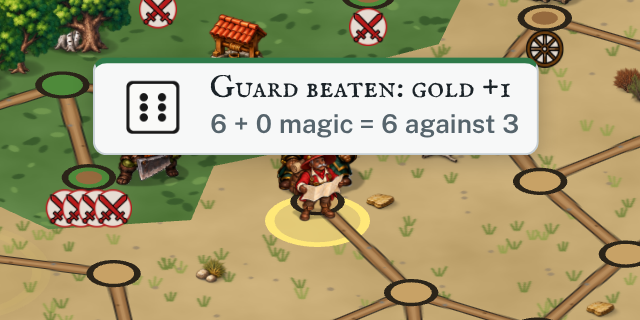
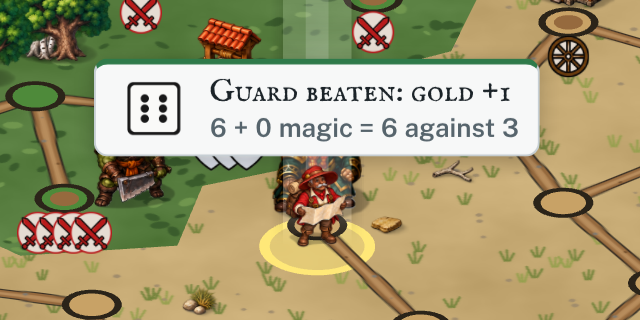
Rulebook: the beams of light, in a sentence and three pictures (Q327)
"A column of light rises from every figure, so you can find it at a
glance." stands as its own paragraph after your own white ring in
Playing online or on one device. The three pictures with figures in them
(the route, the box Go opens to ask, the fight's notice) are taken again
from the game as it now is, the same scenes at the same sizes, so they
show the beams. The other seven pictures and every other word are as
they were.

Claude-Session: https://claude.ai/code/session_01P1RbPbXs9NwxBkwmk9LorR

diff --git a/docs/OPEN_QUESTIONS.md b/docs/OPEN_QUESTIONS.md
@@ -4795,7 +4795,8 @@ recommended"*.
 6. **Walking and the final map.** It walks with a figure walking at End turn
    and stays on the final map, as the rings do (Q305, 6 and 7). A. While the
    figure walks it is out, since 8.
-7. **Rulebook.** Unchanged. A.
+7. **Rulebook.** Unchanged. A. A sentence and three pictures since
+   [Q327](#q327).
 8. **While a figure walks.** At 13:44: *"We need the column of light fade out
    quickly when a hero starts walking. The heroes should ealk without light
    shining on them. Then as they arrive at their destination, the light should
@@ -4838,6 +4839,45 @@ see-through, white, with a white core a third of its width at 0.32,
 which is 40% of the beam first shown, fading out evenly to nothing at its top;
 its edge is `BEAM_EDGE` (10).
 No rule, number, map or rulebook word changed.
+
+---
+
+<a id="q327"></a>
+### Q327. ~~What does the rulebook say and show of the beams of light?~~ — **answered 2026-10-28: one sentence, a paragraph of its own after your own white ring in *Playing online or on one device*: "A column of light rises from every figure, so you can find it at a glance."; the three pictures with figures in them taken again, the other seven as they were (1-3)**
+
+Andrei, 2026-10-28 at 17:28, the beam ([Q326](#q326)) merged: *"also I think
+we need to update the pictures in the rule book, and maybe add a sentence
+about hero figures being marked with columns of light"*. Q326, 7 had left the
+rulebook unchanged.
+
+1. **Where the sentence goes, and its words.** The rulebook calls a hero a
+   figure. Asked: A, in *Setting up*, after "Each player picks a name and one
+   of six figures": "On the map, a column of light rises from every figure,
+   so you can find it at a glance." (recommended); B, the same followed by
+   "It goes out while the figure walks."; C, in *Playing online or on one
+   device*, beside the rings: "A column of light rises from every figure, so
+   you can find it at a glance."; D, the Glossary's Figure becomes "Your piece
+   on the map, marked by a column of light." **Answered** at 17:52: C.
+2. **Where beside the rings.** The pulsing ring is in the paragraph on one
+   device only, so the sentence stands by your own white ring
+   ([Q312](#q312)). Asked: A, a paragraph of its own after the white ring's
+   (recommended); B, a paragraph of its own before it; C, at the end of the
+   white ring's paragraph. **Answered** at 18:29: A.
+3. **The pictures.** Of the ten pictures ([Q322](#q322), [Q325](#q325)),
+   three have figures in them and now show their beams: the route, the box Go
+   opens to ask, and the fight's notice. Each is taken again as before, from
+   a two-player game on the map "adventure" at twice the page's resolution,
+   the same scene at the same size: the route to the same end cross, the box
+   over the same route, the same fight won against a magic guard of 3. The
+   map in them is drawn a little smaller (the route and the box) or a little
+   larger (the fight) than before. The box shows the words it has asked with
+   since [Q318](#q318), 17. The other seven have no figure in them and stay
+   as they were.
+
+Built: the sentence in `docs/RULEBOOK.md` after "Your own figure stands on a
+white ring"; `docs/rulebook/route.png`, `confirm.png` and `fight.png` taken
+again. No other rulebook word, picture, rule, number or map changed, and no
+words in any picture's brackets.
 
 ---
 

diff --git a/docs/RULEBOOK.md b/docs/RULEBOOK.md
@@ -157,6 +157,8 @@ The rules are the same either way; the Play online switch on the setup screen ch
 
 Your own figure stands on a white ring: online always, on one device only when one person plays against the computer.
 
+A column of light rises from every figure, so you can find it at a glance.
+
 While Track is pressed, the map follows the other players as they take their turns. Track starts pressed at the beginning of each game, and moving the map while someone else plays unpresses it. On your own turn the map stays where you put it while you plan, and always follows your walk.
 
 A player whose figure is out of view shows as their portrait with an arrow at the map's edge. Tap it to bring them into view.
